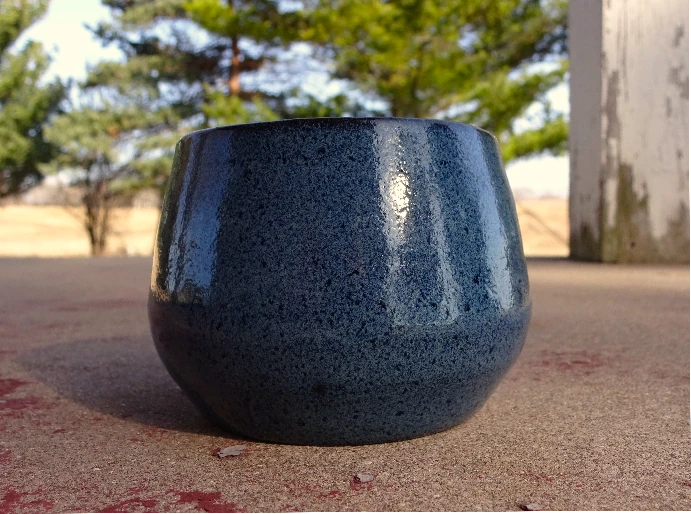
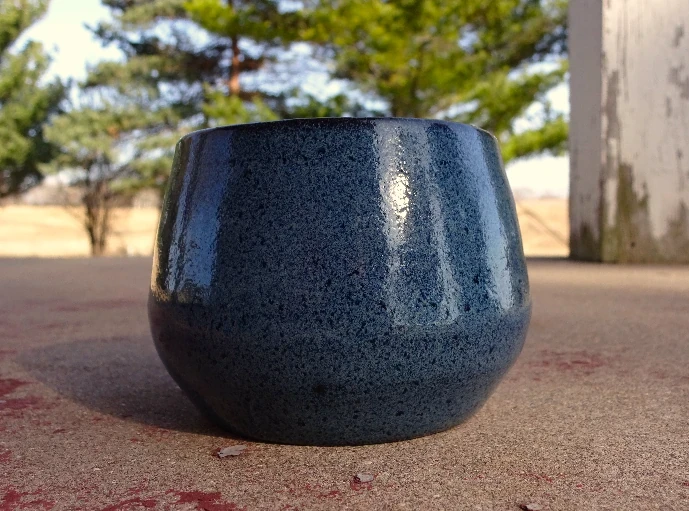
added drop shadow to images

diff --git a/public/posts/alien/index.html b/public/posts/alien/index.html
@@ -72,6 +72,7 @@ With every evolutionary step, the chances of intelligent life coming to be gets 
     
     <a href="https://github.com/StackGrandiose" target="_blank" ><img id="github-icon" src="/github-mark.png"/></a>
     <img src="/css2.gif" style="width: 81px; display: inline;"/>
+    <img src="/License_icon-pd-88x31.png" style="width: 81px; display: inline;"/>
 
   </footer>
 </body>

diff --git a/public/posts/catcher/index.html b/public/posts/catcher/index.html
@@ -71,6 +71,7 @@ I couldn&rsquo;t quite see if that theme was present throughout the whole book. 
     
     <a href="https://github.com/StackGrandiose" target="_blank" ><img id="github-icon" src="/github-mark.png"/></a>
     <img src="/css2.gif" style="width: 81px; display: inline;"/>
+    <img src="/License_icon-pd-88x31.png" style="width: 81px; display: inline;"/>
 
   </footer>
 </body>

diff --git a/public/posts/collatz/index.html b/public/posts/collatz/index.html
@@ -97,6 +97,7 @@ longest <a href="https://projecteuler.net/problem=14">Collatz Sequence</a>. The 
     
     <a href="https://github.com/StackGrandiose" target="_blank" ><img id="github-icon" src="/github-mark.png"/></a>
     <img src="/css2.gif" style="width: 81px; display: inline;"/>
+    <img src="/License_icon-pd-88x31.png" style="width: 81px; display: inline;"/>
 
   </footer>
 </body>

diff --git a/public/index.html b/public/index.html
@@ -40,6 +40,7 @@ uses is <a href="https://stephango.com/flexoki">Flexoki</a> by Steph Ango.</p>
     
     <a href="https://github.com/StackGrandiose" target="_blank" ><img id="github-icon" src="/github-mark.png"/></a>
     <img src="/css2.gif" style="width: 81px; display: inline;"/>
+    <img src="/License_icon-pd-88x31.png" style="width: 81px; display: inline;"/>
 
   </footer>
 </body>

diff --git a/public/posts/youtube/index.html b/public/posts/youtube/index.html
@@ -107,6 +107,7 @@ www.youtube.com##ytd-thumbnail.ytd-video-renderer.style-scope
     
     <a href="https://github.com/StackGrandiose" target="_blank" ><img id="github-icon" src="/github-mark.png"/></a>
     <img src="/css2.gif" style="width: 81px; display: inline;"/>
+    <img src="/License_icon-pd-88x31.png" style="width: 81px; display: inline;"/>
 
   </footer>
 </body>

diff --git a/themes/agile/layouts/partials/footer.html b/themes/agile/layouts/partials/footer.html
@@ -1,3 +1,4 @@
 <!--<p style="display: inline-block;">Copyright {{ now.Year }}. All rights reserved.</p> -->
     <a href="https://github.com/StackGrandiose" target="_blank" ><img id="github-icon" src="/github-mark.png"/></a>
     <img src="/css2.gif" style="width: 81px; display: inline;"/>
+    <img src="/License_icon-pd-88x31.png" style="width: 81px; display: inline;"/>

diff --git a/public/css/main.css b/public/css/main.css
@@ -1,5 +1,5 @@
 :root {
-    --text-color: rgb(16, 15, 15);
+    --text-color: #3a3a37;
     --bg-color: #FFFCF0;
     --link-color: #24837B; 
     --menu-item-active: rgb(218, 112, 44);
@@ -114,6 +114,7 @@ img {
    margin: 0 auto;
    margin-top: 5vh;
    margin-bottom: 5vh;
+   box-shadow: 5px 5px 5px #3a3a37;
 }
 
 p gif {

diff --git a/public/categories/index.html b/public/categories/index.html
@@ -38,6 +38,7 @@
     
     <a href="https://github.com/StackGrandiose" target="_blank" ><img id="github-icon" src="/github-mark.png"/></a>
     <img src="/css2.gif" style="width: 81px; display: inline;"/>
+    <img src="/License_icon-pd-88x31.png" style="width: 81px; display: inline;"/>
 
   </footer>
 </body>

diff --git a/public/posts/index.html b/public/posts/index.html
@@ -96,6 +96,7 @@
     
     <a href="https://github.com/StackGrandiose" target="_blank" ><img id="github-icon" src="/github-mark.png"/></a>
     <img src="/css2.gif" style="width: 81px; display: inline;"/>
+    <img src="/License_icon-pd-88x31.png" style="width: 81px; display: inline;"/>
 
   </footer>
 </body>

diff --git a/public/posts/vim/index.html b/public/posts/vim/index.html
@@ -63,6 +63,7 @@
     
     <a href="https://github.com/StackGrandiose" target="_blank" ><img id="github-icon" src="/github-mark.png"/></a>
     <img src="/css2.gif" style="width: 81px; display: inline;"/>
+    <img src="/License_icon-pd-88x31.png" style="width: 81px; display: inline;"/>
 
   </footer>
 </body>

diff --git a/public/pottery/index.html b/public/pottery/index.html
@@ -49,6 +49,7 @@
     
     <a href="https://github.com/StackGrandiose" target="_blank" ><img id="github-icon" src="/github-mark.png"/></a>
     <img src="/css2.gif" style="width: 81px; display: inline;"/>
+    <img src="/License_icon-pd-88x31.png" style="width: 81px; display: inline;"/>
 
   </footer>
 </body>

diff --git a/public/tags/book/index.html b/public/tags/book/index.html
@@ -41,6 +41,7 @@
     
     <a href="https://github.com/StackGrandiose" target="_blank" ><img id="github-icon" src="/github-mark.png"/></a>
     <img src="/css2.gif" style="width: 81px; display: inline;"/>
+    <img src="/License_icon-pd-88x31.png" style="width: 81px; display: inline;"/>
 
   </footer>
 </body>
